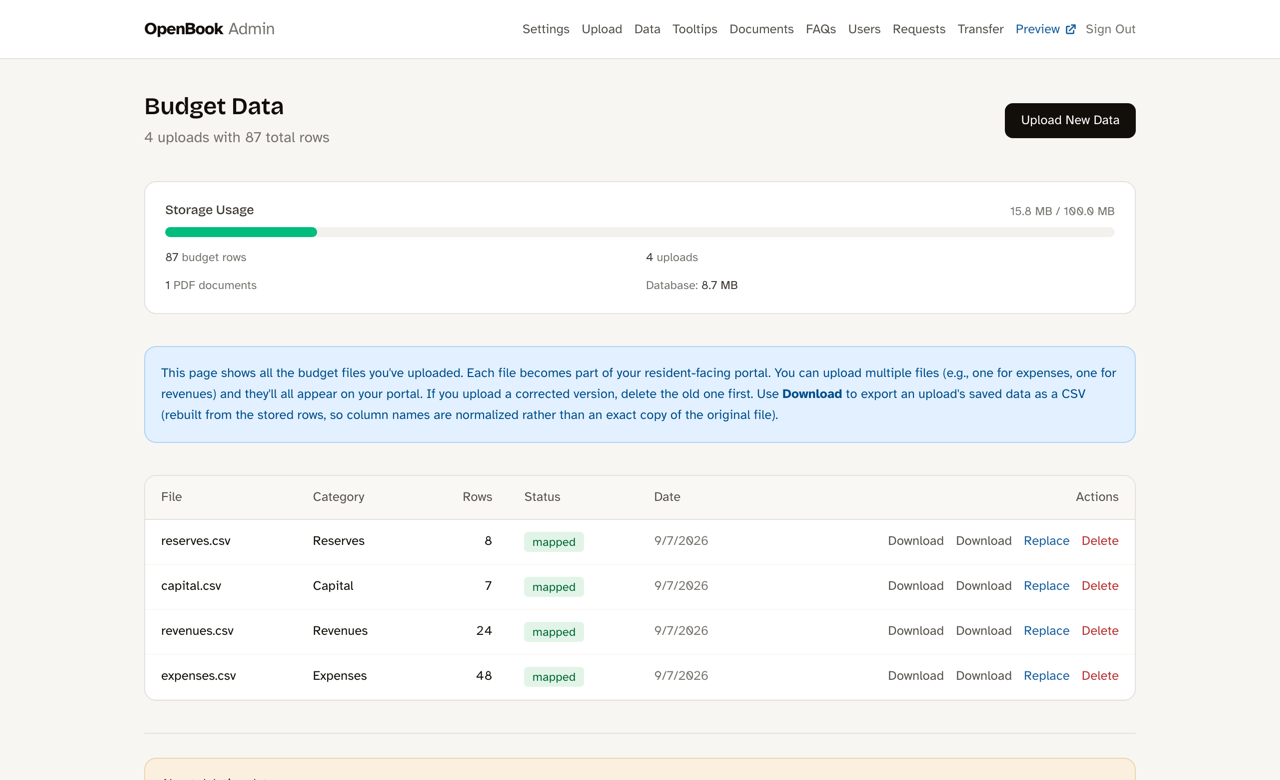
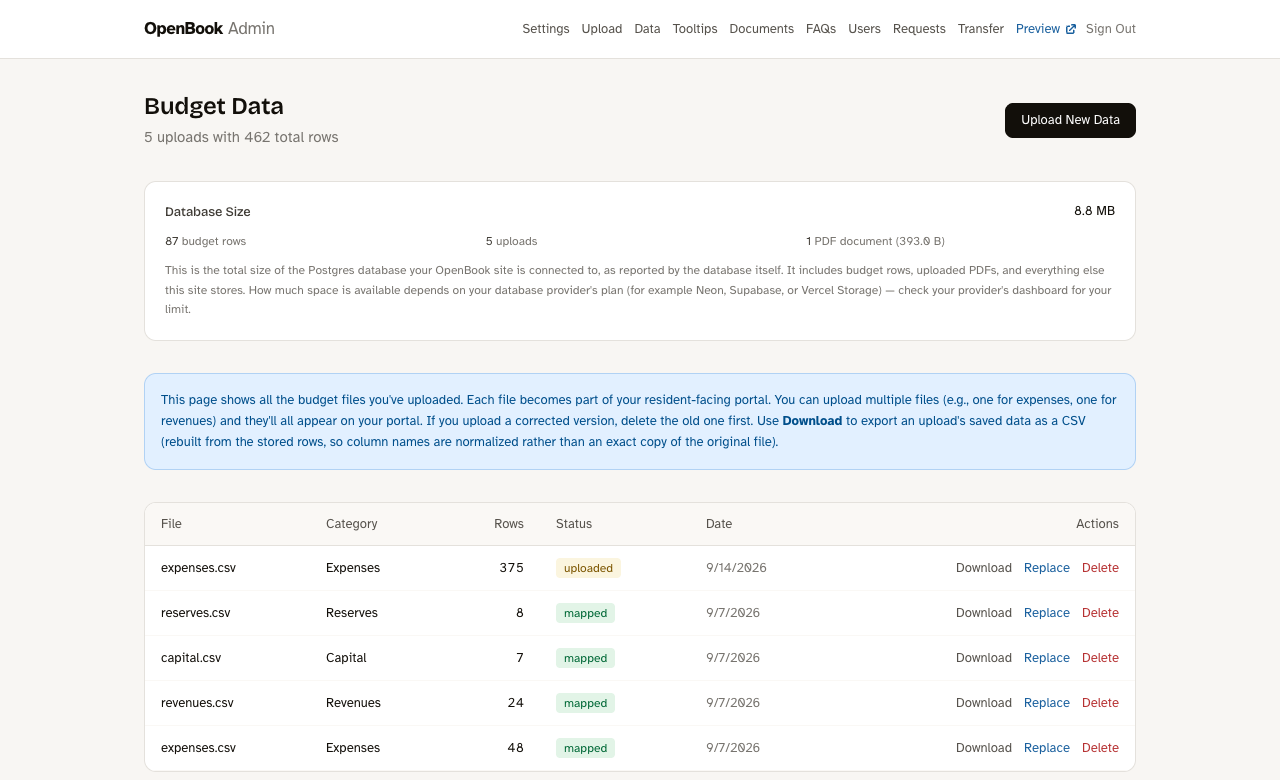
Docs: recapture the Data tab screenshot; explain the "uploaded" status
The Data tab screenshot still showed the removed 100 MB storage bar and the
duplicate Download button. Recaptured at the same 1280x780 crop. The
Finance Staff guide's Step 3 now also explains the yellow "uploaded" badge
(file received, column step never finished, nothing on the portal), the
database-size box, and the Download action, none of which it mentioned.

diff --git a/docs/wiki/Guide-for-Finance-Staff.md b/docs/wiki/Guide-for-Finance-Staff.md
@@ -120,9 +120,11 @@ Go to **Data**.
 
 ![The Data tab listing each uploaded file with its category, row count, and status](https://raw.githubusercontent.com/Allen-Lab-for-Democracy-Renovation/Open-Book/main/docs/screenshots/admin-data.png)
 
-Every file you have uploaded is listed with its category, row count, and date. **Mapped** in green means the data saved correctly.
+Every file you have uploaded is listed with its category, row count, and date. **Mapped** in green means the data saved correctly and is on the portal. **Uploaded** in yellow means the file was received but the column step (2c) was never finished — none of its rows are on the portal. Either go back to **Upload** and do that file again, or **Delete** the unfinished one to clear it out.
 
-From here you can **Replace** a file (removes the old version and takes you back to Upload), **Delete** one upload, or **Delete All Data** and start over.
+The box at the top shows how big your database has grown. It's informational; how much room you have depends on the plan you chose with your database provider.
+
+From here you can **Download** an upload's saved data as a spreadsheet, **Replace** a file (removes the old version and takes you back to Upload), **Delete** one upload, or **Delete All Data** and start over.
 
 > **Careful:** deleting takes that data off the public portal immediately. If your portal is already live, residents stop seeing it until you upload a replacement.
 
